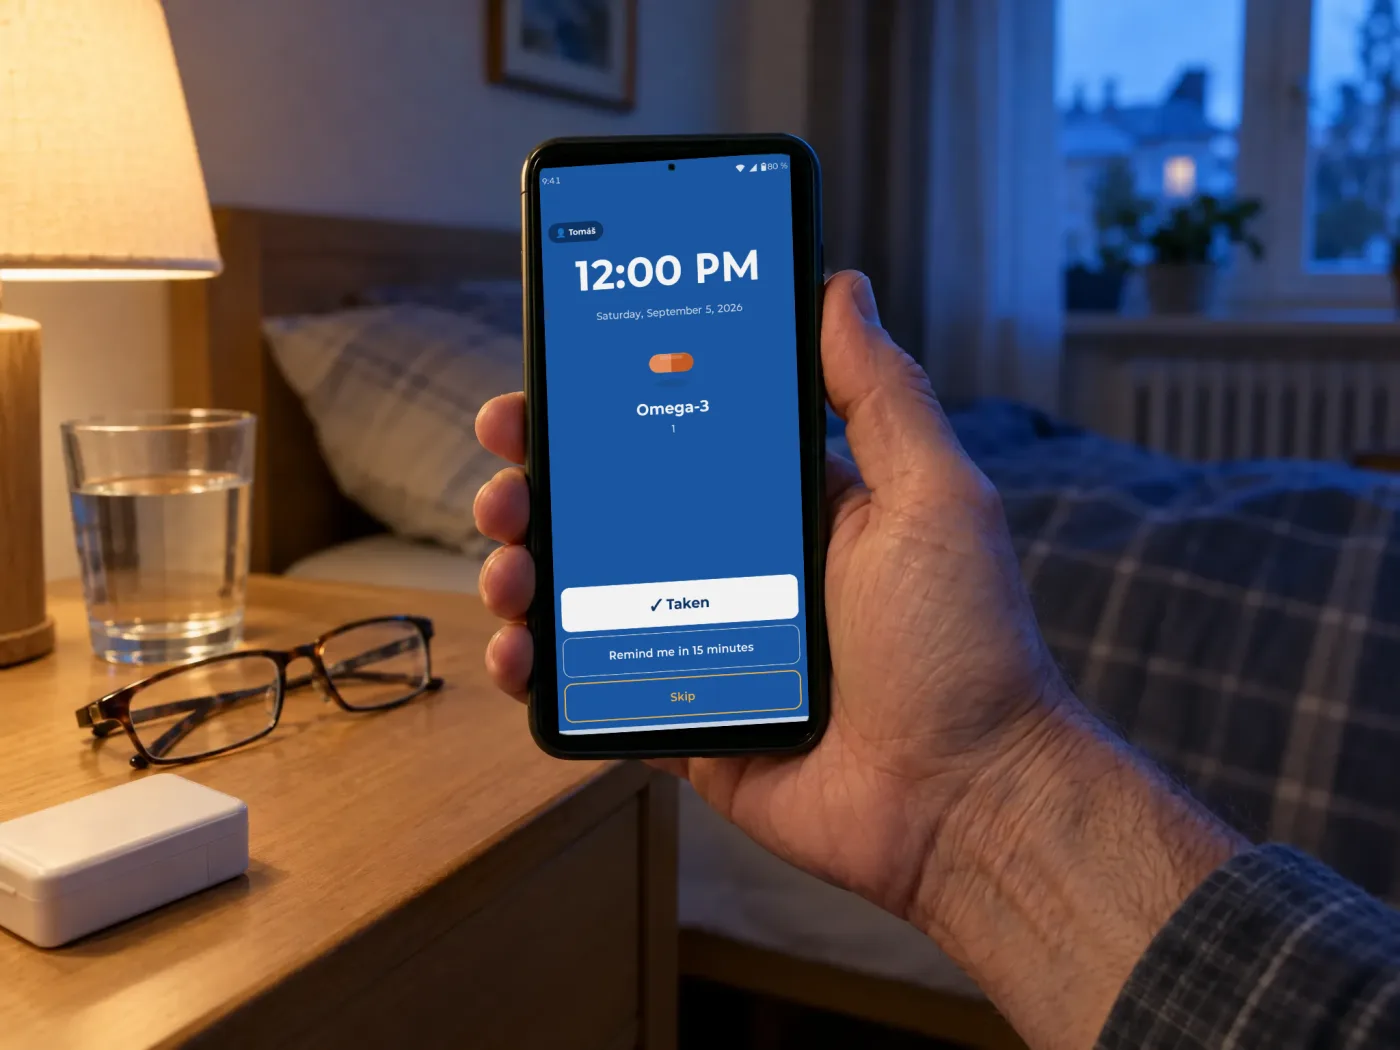
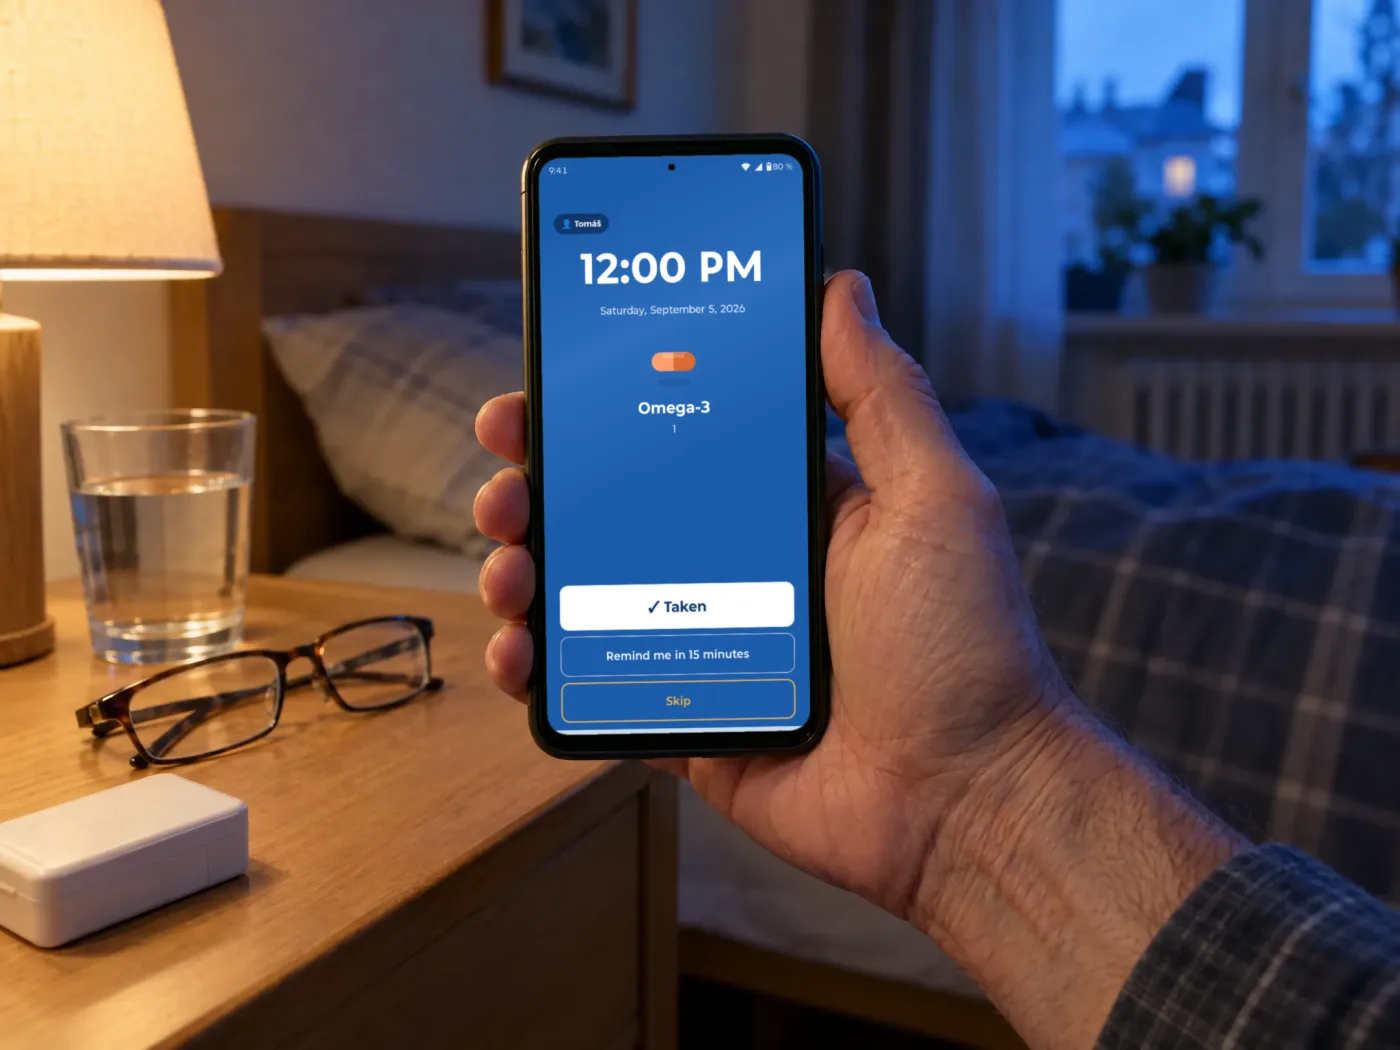
Official Google Play badges in 10 languages; photos re-fitted to the phone tilt, younger people mixed in
Claude-Session: https://claude.ai/code/session_0126i5H7AJp5RrJpwyETQSpc

Changed region(s): [[0.3686, 0.1219, 0.5836, 0.701]]

diff --git a/docs/pillbell/index.html b/docs/pillbell/index.html
@@ -65,9 +65,7 @@
         <h1>A medicine alarm that really rings.</h1>
         <p class="lead"><strong>For you or your parents.</strong> PillBell rings like an alarm clock until the pill is taken: full screen, even on a locked phone, even when the phone is saving battery. And it shows you that every reminder went off.</p>
         <div class="actions">
-          <a class="btn btn-primary" href="https://play.google.com/store/apps/details?id=app.pillbell.reminder&amp;utm_source=tomelo.app&amp;utm_medium=web&amp;utm_campaign=pillbell_hero">
-            <svg viewBox="0 0 24 24" fill="currentColor" aria-hidden="true"><path d="M4 3.5v17l15-8.5-15-8.5z"/></svg>
-            Get it on Google Play</a>
+          <a class="play-link" href="https://play.google.com/store/apps/details?id=app.pillbell.reminder&amp;utm_source=tomelo.app&amp;utm_medium=web&amp;utm_campaign=pillbell_hero"><img class="play-badge" src="/assets/badges/google-play-en.svg" alt="Get it on Google Play" width="180" height="60"></a>
           <a class="btn btn-ghost" href="#how">How it works</a>
         </div>
         <ul class="trust">
@@ -77,7 +75,7 @@
           <li><svg viewBox="0 0 24 24" fill="none" stroke="currentColor" stroke-width="2.4" stroke-linecap="round" stroke-linejoin="round" aria-hidden="true"><path d="M5 12.5l4.5 4.5L19 7.5"/></svg>Android &middot; 10 languages</li>
         </ul>
       </div>
-      <img class="photo hero-photo" fetchpriority="high" src="/assets/photos/pillbell-kitchen.webp" alt="A woman at her kitchen table holds up her phone showing PillBell in simple mode: the next medicines and a large I took it button. A weekly pill organizer lies on the table." width="1400" height="1050">
+      <img class="photo hero-photo" fetchpriority="high" src="/assets/photos/pillbell-morning.webp" alt="Illustrative photo: a woman in her kitchen checks PillBell's Today screen in the morning, with her medicine boxes, coffee and a glass of water on the counter." width="1400" height="1050">
       </div>
     </div>
   </div>
@@ -98,7 +96,10 @@
           <p>You set up their phone once. They see one big card and one big button: &ldquo;I took it&rdquo;. You can check on the reliability screen that every reminder rang.</p>
         </div>
       </div>
-      <img class="photo photo-wide" src="/assets/photos/pillbell-family.webp" alt="A daughter sits on the sofa with her father and shows him PillBell's Today screen on his phone." width="1400" height="1050" loading="lazy" decoding="async">
+      <div class="photo-pair">
+        <img class="photo" src="/assets/photos/pillbell-breakfast.webp" alt="Illustrative photo: at breakfast, a man shows his wife his medicines for the day in PillBell." width="1400" height="1050" loading="lazy" decoding="async">
+        <img class="photo" src="/assets/photos/pillbell-family.webp" alt="Illustrative photo: a daughter sits on the sofa with her father and shows him PillBell's Today screen on his phone." width="1400" height="1050" loading="lazy" decoding="async">
+      </div>
     </div>
   </section>
 
@@ -126,7 +127,7 @@
             <li>A test alarm during setup, so you can see it work before you rely on it</li>
           </ul>
         </div>
-        <img class="photo" src="/assets/photos/pillbell-evening.webp" alt="In the evening by the bed, a man holds his phone with PillBell ringing full screen: Taken, Remind me in 15 minutes, Skip." width="1400" height="1050" loading="lazy" decoding="async">
+        <img class="photo" src="/assets/photos/pillbell-evening.webp" alt="Illustrative photo: in the evening by the bed, a man holds his phone with PillBell ringing full screen: Taken, Remind me in 15 minutes, Skip." width="1400" height="1050" loading="lazy" decoding="async">
       </div>
 
       <div class="feature flip">
@@ -223,9 +224,7 @@
       <div class="cta-end">
         <h2>Set it up once. Then it rings.</h2>
         <div class="actions">
-          <a class="btn btn-primary" href="https://play.google.com/store/apps/details?id=app.pillbell.reminder&amp;utm_source=tomelo.app&amp;utm_medium=web&amp;utm_campaign=pillbell_faq">
-            <svg viewBox="0 0 24 24" fill="currentColor" aria-hidden="true"><path d="M4 3.5v17l15-8.5-15-8.5z"/></svg>
-            Get it on Google Play</a>
+          <a class="play-link" href="https://play.google.com/store/apps/details?id=app.pillbell.reminder&amp;utm_source=tomelo.app&amp;utm_medium=web&amp;utm_campaign=pillbell_faq"><img class="play-badge" src="/assets/badges/google-play-en.svg" alt="Get it on Google Play" width="180" height="60"></a>
         </div>
       </div>
     </div>

diff --git a/docs/index.html b/docs/index.html
@@ -94,15 +94,13 @@
     <div class="wrap">
       <h2 class="section-title">Our apps</h2>
       <div class="app-tile">
-        <img class="photo" src="/assets/photos/pillbell-kitchen.webp" alt="A woman at her kitchen table holds up her phone showing PillBell in simple mode." width="1400" height="1050" loading="lazy" decoding="async">
+        <img class="photo" src="/assets/photos/pillbell-desk.webp" alt="Illustrative photo: a man at his desk holds up his phone showing PillBell's reliability screen, with a weekly pill organizer on the desk." width="1400" height="1050" loading="lazy" decoding="async">
         <div>
           <h3>PillBell</h3>
           <span class="tag">Android &middot; 10 languages</span>
           <p>A medicine alarm that really rings: full screen, like an alarm clock, until the dose is taken. For people who take several medicines a day, or who set up a parent's phone. Simple mode, the whole family in one app, a PDF medicine list for the doctor, and a record of every reminder that rang on time.</p>
           <div class="actions">
-            <a class="btn btn-primary" href="https://play.google.com/store/apps/details?id=app.pillbell.reminder&amp;utm_source=tomelo.app&amp;utm_medium=web&amp;utm_campaign=home">
-              <svg viewBox="0 0 24 24" fill="currentColor" aria-hidden="true"><path d="M4 3.5v17l15-8.5-15-8.5z"/></svg>
-              Get it on Google Play</a>
+            <a class="play-link" href="https://play.google.com/store/apps/details?id=app.pillbell.reminder&amp;utm_source=tomelo.app&amp;utm_medium=web&amp;utm_campaign=home"><img class="play-badge" src="/assets/badges/google-play-en.svg" alt="Get it on Google Play" width="180" height="60"></a>
             <a class="btn btn-ghost" href="/pillbell/">Learn more</a>
           </div>
         </div>

diff --git a/docs/assets/site.css b/docs/assets/site.css
@@ -298,9 +298,15 @@ details p { margin: 0; padding: 0 22px 20px; color: var(--ink-2); }
 
 /* photos of people using the apps (illustrative, AI-generated; real screenshots on the phones) */
 .photo { display: block; width: 100%; height: auto; border-radius: 28px; object-fit: cover; aspect-ratio: 4 / 3; background: var(--sky); }
-.hero-photo { box-shadow: var(--phone-shadow); aspect-ratio: 4 / 5; object-position: 74% 45%; max-height: 640px; }
+.hero-photo { box-shadow: var(--phone-shadow); aspect-ratio: 4 / 5; object-position: 46% 45%; max-height: 640px; }
+.photo-pair { display: grid; grid-template-columns: repeat(auto-fit, minmax(min(300px, 100%), 1fr)); gap: 22px; margin-top: 22px; }
 .photo-wide { margin-top: 22px; aspect-ratio: 16 / 9; object-position: 50% 45%; }
 .feature img.photo { width: 100%; border: 0; border-radius: 28px; }
 .app-tile { grid-template-columns: minmax(0, 340px) 1fr; }
-.app-tile img.photo { border: 0; aspect-ratio: 4 / 5; object-position: 72% 50%; }
+.app-tile img.photo { border: 0; aspect-ratio: 4 / 5; object-position: 44% 50%; }
 @media (max-width: 860px) { .app-tile img.photo { width: 100%; aspect-ratio: 4 / 3; } }
+
+/* official Google Play badge (artwork © Google LLC, used per Google's badge guidelines) */
+.play-link { display: inline-flex; border-radius: 10px; line-height: 0; transition: transform .12s var(--ease); }
+.play-link:active { transform: scale(.97); }
+.play-badge { height: 60px; width: auto; }

diff --git a/docs/pillbell/guide/uk.html b/docs/pillbell/guide/uk.html
@@ -236,8 +236,7 @@ PillBell не має доступу до інтернету й нічого не
 </div>
 <div class="wrap narrow">
 <div class="guide-end">
-<div class="actions"><a href="https://play.google.com/store/apps/details?id=app.pillbell.reminder&amp;hl=uk&amp;utm_source=tomelo.app&amp;utm_medium=web&amp;utm_campaign=guide_uk" class="btn btn-primary"><svg viewBox="0 0 24 24" fill="currentColor" aria-hidden="true"><path d="M4 3.5v17l15-8.5-15-8.5z"/></svg>
-Завантажити PillBell з Google Play</a></div>
+<div class="actions"><a class="play-link" href="https://play.google.com/store/apps/details?id=app.pillbell.reminder&amp;hl=uk&amp;utm_source=tomelo.app&amp;utm_medium=web&amp;utm_campaign=guide_uk"><img class="play-badge" src="/assets/badges/google-play-uk.svg" alt="Завантажити PillBell з Google Play" width="180" height="60"></a></div>
 <p>PillBell is made by <a href="/">Tomelo Apps</a>.</p>
   <p>Підтримка: <a href="mailto:support@tomelo.app">support@tomelo.app</a> ·
   <a href="/pillbell/privacy/">Політика конфіденційності</a></p>

diff --git a/docs/pillbell/guide/es.html b/docs/pillbell/guide/es.html
@@ -236,8 +236,7 @@ checo, francés, italiano, polaco, neerlandés, portugués y ucraniano.</p>
 </div>
 <div class="wrap narrow">
 <div class="guide-end">
-<div class="actions"><a href="https://play.google.com/store/apps/details?id=app.pillbell.reminder&amp;hl=es&amp;utm_source=tomelo.app&amp;utm_medium=web&amp;utm_campaign=guide_es" class="btn btn-primary"><svg viewBox="0 0 24 24" fill="currentColor" aria-hidden="true"><path d="M4 3.5v17l15-8.5-15-8.5z"/></svg>
-Descargar PillBell en Google Play</a></div>
+<div class="actions"><a class="play-link" href="https://play.google.com/store/apps/details?id=app.pillbell.reminder&amp;hl=es&amp;utm_source=tomelo.app&amp;utm_medium=web&amp;utm_campaign=guide_es"><img class="play-badge" src="/assets/badges/google-play-es.svg" alt="Descargar PillBell en Google Play" width="180" height="60"></a></div>
 <p>PillBell is made by <a href="/">Tomelo Apps</a>.</p>
   <p>Soporte: <a href="mailto:support@tomelo.app">support@tomelo.app</a> ·
   <a href="/pillbell/privacy/">Política de privacidad</a></p>

diff --git a/docs/pillbell/guide/it.html b/docs/pillbell/guide/it.html
@@ -238,8 +238,7 @@ francese, spagnolo, polacco, olandese, portoghese e ucraino.</p>
 </div>
 <div class="wrap narrow">
 <div class="guide-end">
-<div class="actions"><a href="https://play.google.com/store/apps/details?id=app.pillbell.reminder&amp;hl=it&amp;utm_source=tomelo.app&amp;utm_medium=web&amp;utm_campaign=guide_it" class="btn btn-primary"><svg viewBox="0 0 24 24" fill="currentColor" aria-hidden="true"><path d="M4 3.5v17l15-8.5-15-8.5z"/></svg>
-Scarica PillBell su Google Play</a></div>
+<div class="actions"><a class="play-link" href="https://play.google.com/store/apps/details?id=app.pillbell.reminder&amp;hl=it&amp;utm_source=tomelo.app&amp;utm_medium=web&amp;utm_campaign=guide_it"><img class="play-badge" src="/assets/badges/google-play-it.svg" alt="Scarica PillBell su Google Play" width="180" height="60"></a></div>
 <p>PillBell is made by <a href="/">Tomelo Apps</a>.</p>
   <p>Assistenza: <a href="mailto:support@tomelo.app">support@tomelo.app</a> ·
   <a href="/pillbell/privacy/">Informativa sulla privacy</a></p>

diff --git a/docs/pillbell/guide/pt.html b/docs/pillbell/guide/pt.html
@@ -237,8 +237,7 @@ francês, espanhol, italiano, polaco, neerlandês e ucraniano.</p>
 </div>
 <div class="wrap narrow">
 <div class="guide-end">
-<div class="actions"><a href="https://play.google.com/store/apps/details?id=app.pillbell.reminder&amp;hl=pt&amp;utm_source=tomelo.app&amp;utm_medium=web&amp;utm_campaign=guide_pt" class="btn btn-primary"><svg viewBox="0 0 24 24" fill="currentColor" aria-hidden="true"><path d="M4 3.5v17l15-8.5-15-8.5z"/></svg>
-Obter o PillBell no Google Play</a></div>
+<div class="actions"><a class="play-link" href="https://play.google.com/store/apps/details?id=app.pillbell.reminder&amp;hl=pt&amp;utm_source=tomelo.app&amp;utm_medium=web&amp;utm_campaign=guide_pt"><img class="play-badge" src="/assets/badges/google-play-pt.svg" alt="Obter o PillBell no Google Play" width="180" height="60"></a></div>
 <p>PillBell is made by <a href="/">Tomelo Apps</a>.</p>
   <p>Suporte: <a href="mailto:support@tomelo.app">support@tomelo.app</a> ·
   <a href="/pillbell/privacy/">Política de privacidade</a></p>

diff --git a/docs/pillbell/guide/nl.html b/docs/pillbell/guide/nl.html
@@ -237,8 +237,7 @@ Italiaans, Pools, Portugees en Oekraïens.</p>
 </div>
 <div class="wrap narrow">
 <div class="guide-end">
-<div class="actions"><a href="https://play.google.com/store/apps/details?id=app.pillbell.reminder&amp;hl=nl&amp;utm_source=tomelo.app&amp;utm_medium=web&amp;utm_campaign=guide_nl" class="btn btn-primary"><svg viewBox="0 0 24 24" fill="currentColor" aria-hidden="true"><path d="M4 3.5v17l15-8.5-15-8.5z"/></svg>
-PillBell downloaden via Google Play</a></div>
+<div class="actions"><a class="play-link" href="https://play.google.com/store/apps/details?id=app.pillbell.reminder&amp;hl=nl&amp;utm_source=tomelo.app&amp;utm_medium=web&amp;utm_campaign=guide_nl"><img class="play-badge" src="/assets/badges/google-play-nl.svg" alt="PillBell downloaden via Google Play" width="180" height="60"></a></div>
 <p>PillBell is made by <a href="/">Tomelo Apps</a>.</p>
   <p>Ondersteuning: <a href="mailto:support@tomelo.app">support@tomelo.app</a> ·
   <a href="/pillbell/privacy/">Privacybeleid</a></p>

diff --git a/docs/pillbell/guide/fr.html b/docs/pillbell/guide/fr.html
@@ -243,8 +243,7 @@ et ukrainien.</p>
 </div>
 <div class="wrap narrow">
 <div class="guide-end">
-<div class="actions"><a href="https://play.google.com/store/apps/details?id=app.pillbell.reminder&amp;hl=fr&amp;utm_source=tomelo.app&amp;utm_medium=web&amp;utm_campaign=guide_fr" class="btn btn-primary"><svg viewBox="0 0 24 24" fill="currentColor" aria-hidden="true"><path d="M4 3.5v17l15-8.5-15-8.5z"/></svg>
-Télécharger PillBell sur Google Play</a></div>
+<div class="actions"><a class="play-link" href="https://play.google.com/store/apps/details?id=app.pillbell.reminder&amp;hl=fr&amp;utm_source=tomelo.app&amp;utm_medium=web&amp;utm_campaign=guide_fr"><img class="play-badge" src="/assets/badges/google-play-fr.svg" alt="Télécharger PillBell sur Google Play" width="180" height="60"></a></div>
 <p>PillBell is made by <a href="/">Tomelo Apps</a>.</p>
   <p>Assistance : <a href="mailto:support@tomelo.app">support@tomelo.app</a> ·
   <a href="/pillbell/privacy/">Politique de confidentialité</a></p>

diff --git a/docs/pillbell/guide/index.html b/docs/pillbell/guide/index.html
@@ -230,8 +230,7 @@ Polish, Dutch, Portuguese and Ukrainian.</p>
 </div>
 <div class="wrap narrow">
 <div class="guide-end">
-<div class="actions"><a href="https://play.google.com/store/apps/details?id=app.pillbell.reminder&amp;hl=en&amp;utm_source=tomelo.app&amp;utm_medium=web&amp;utm_campaign=guide_en" class="btn btn-primary"><svg viewBox="0 0 24 24" fill="currentColor" aria-hidden="true"><path d="M4 3.5v17l15-8.5-15-8.5z"/></svg>
-Get PillBell on Google Play</a></div>
+<div class="actions"><a class="play-link" href="https://play.google.com/store/apps/details?id=app.pillbell.reminder&amp;hl=en&amp;utm_source=tomelo.app&amp;utm_medium=web&amp;utm_campaign=guide_en"><img class="play-badge" src="/assets/badges/google-play-en.svg" alt="Get PillBell on Google Play" width="180" height="60"></a></div>
 <p>PillBell is made by <a href="/">Tomelo Apps</a>.</p>
   <p>Support: <a href="mailto:support@tomelo.app">support@tomelo.app</a> ·
   <a href="/pillbell/privacy/">Privacy policy</a></p>

diff --git a/docs/pillbell/guide/cs.html b/docs/pillbell/guide/cs.html
@@ -232,8 +232,7 @@ a ukrajinsky.</p>
 </div>
 <div class="wrap narrow">
 <div class="guide-end">
-<div class="actions"><a href="https://play.google.com/store/apps/details?id=app.pillbell.reminder&amp;hl=cs&amp;utm_source=tomelo.app&amp;utm_medium=web&amp;utm_campaign=guide_cs" class="btn btn-primary"><svg viewBox="0 0 24 24" fill="currentColor" aria-hidden="true"><path d="M4 3.5v17l15-8.5-15-8.5z"/></svg>
-Stáhnout PillBell na Google Play</a></div>
+<div class="actions"><a class="play-link" href="https://play.google.com/store/apps/details?id=app.pillbell.reminder&amp;hl=cs&amp;utm_source=tomelo.app&amp;utm_medium=web&amp;utm_campaign=guide_cs"><img class="play-badge" src="/assets/badges/google-play-cs.svg" alt="Stáhnout PillBell na Google Play" width="180" height="60"></a></div>
 <p>PillBell is made by <a href="/">Tomelo Apps</a>.</p>
   <p>Podpora: <a href="mailto:support@tomelo.app">support@tomelo.app</a> ·
   <a href="/pillbell/privacy/">Zásady ochrany soukromí</a></p>

diff --git a/docs/pillbell/guide/pl.html b/docs/pillbell/guide/pl.html
@@ -236,8 +236,7 @@ i ukraińsku.</p>
 </div>
 <div class="wrap narrow">
 <div class="guide-end">
-<div class="actions"><a href="https://play.google.com/store/apps/details?id=app.pillbell.reminder&amp;hl=pl&amp;utm_source=tomelo.app&amp;utm_medium=web&amp;utm_campaign=guide_pl" class="btn btn-primary"><svg viewBox="0 0 24 24" fill="currentColor" aria-hidden="true"><path d="M4 3.5v17l15-8.5-15-8.5z"/></svg>
-Pobierz PillBell z Google Play</a></div>
+<div class="actions"><a class="play-link" href="https://play.google.com/store/apps/details?id=app.pillbell.reminder&amp;hl=pl&amp;utm_source=tomelo.app&amp;utm_medium=web&amp;utm_campaign=guide_pl"><img class="play-badge" src="/assets/badges/google-play-pl.svg" alt="Pobierz PillBell z Google Play" width="180" height="60"></a></div>
 <p>PillBell is made by <a href="/">Tomelo Apps</a>.</p>
   <p>Wsparcie: <a href="mailto:support@tomelo.app">support@tomelo.app</a> ·
   <a href="/pillbell/privacy/">Polityka prywatności</a></p>
